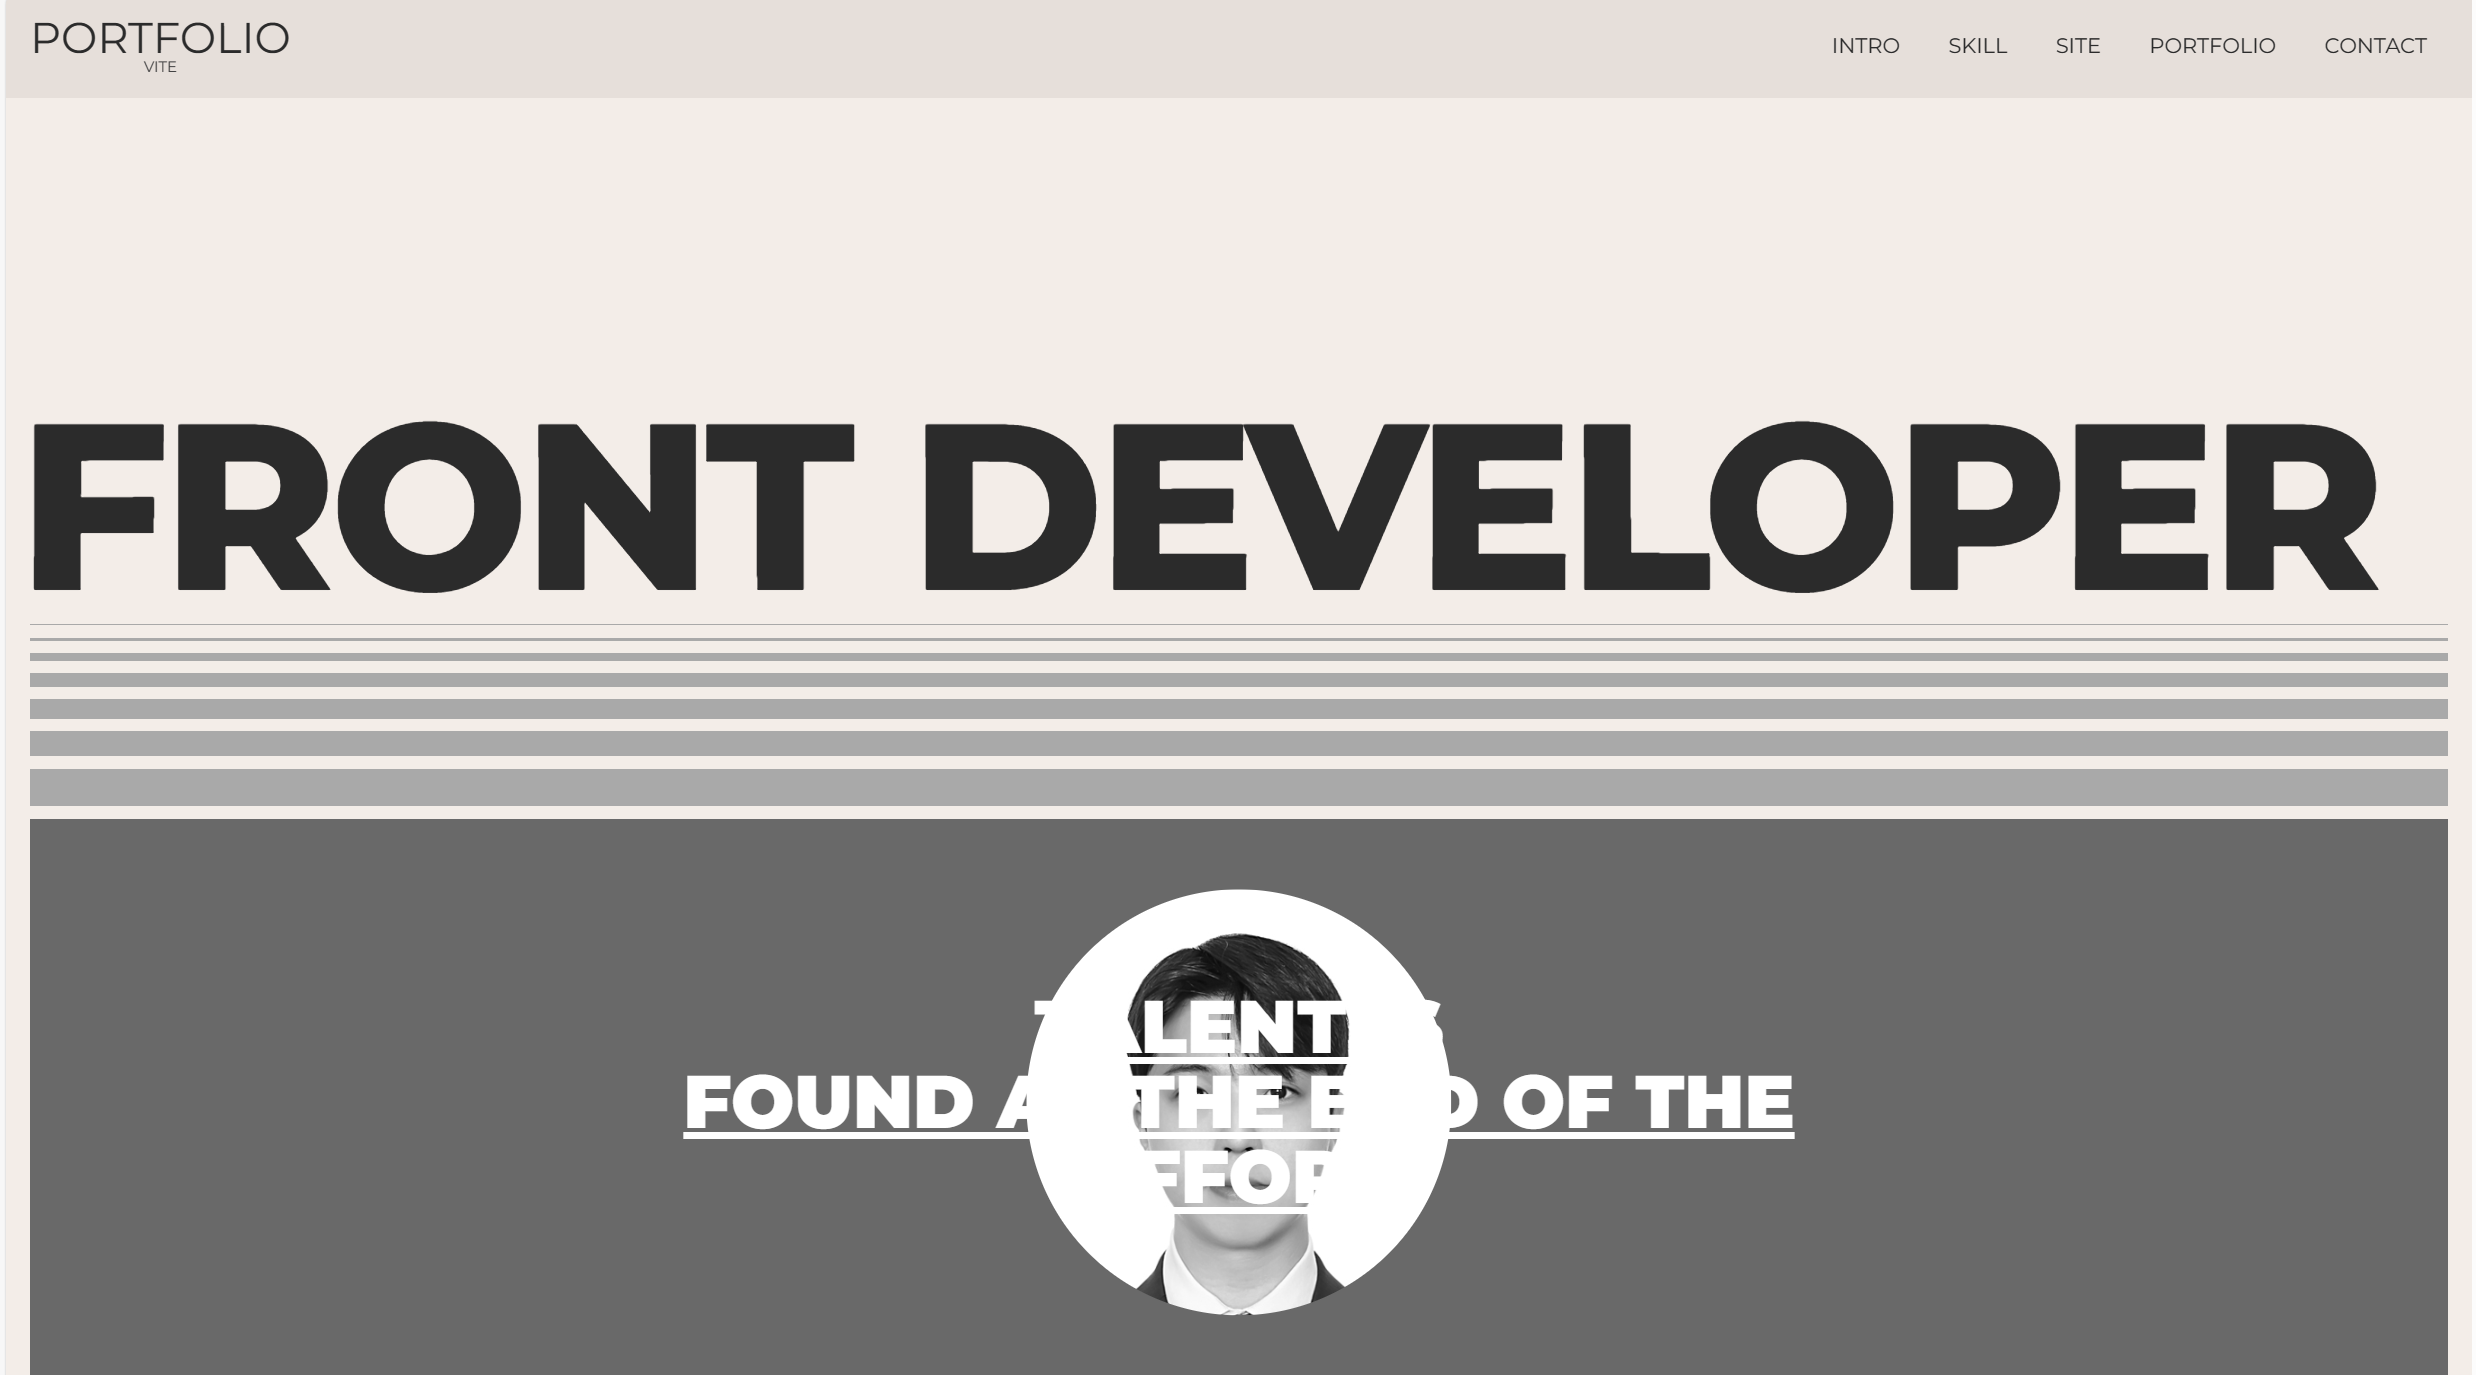
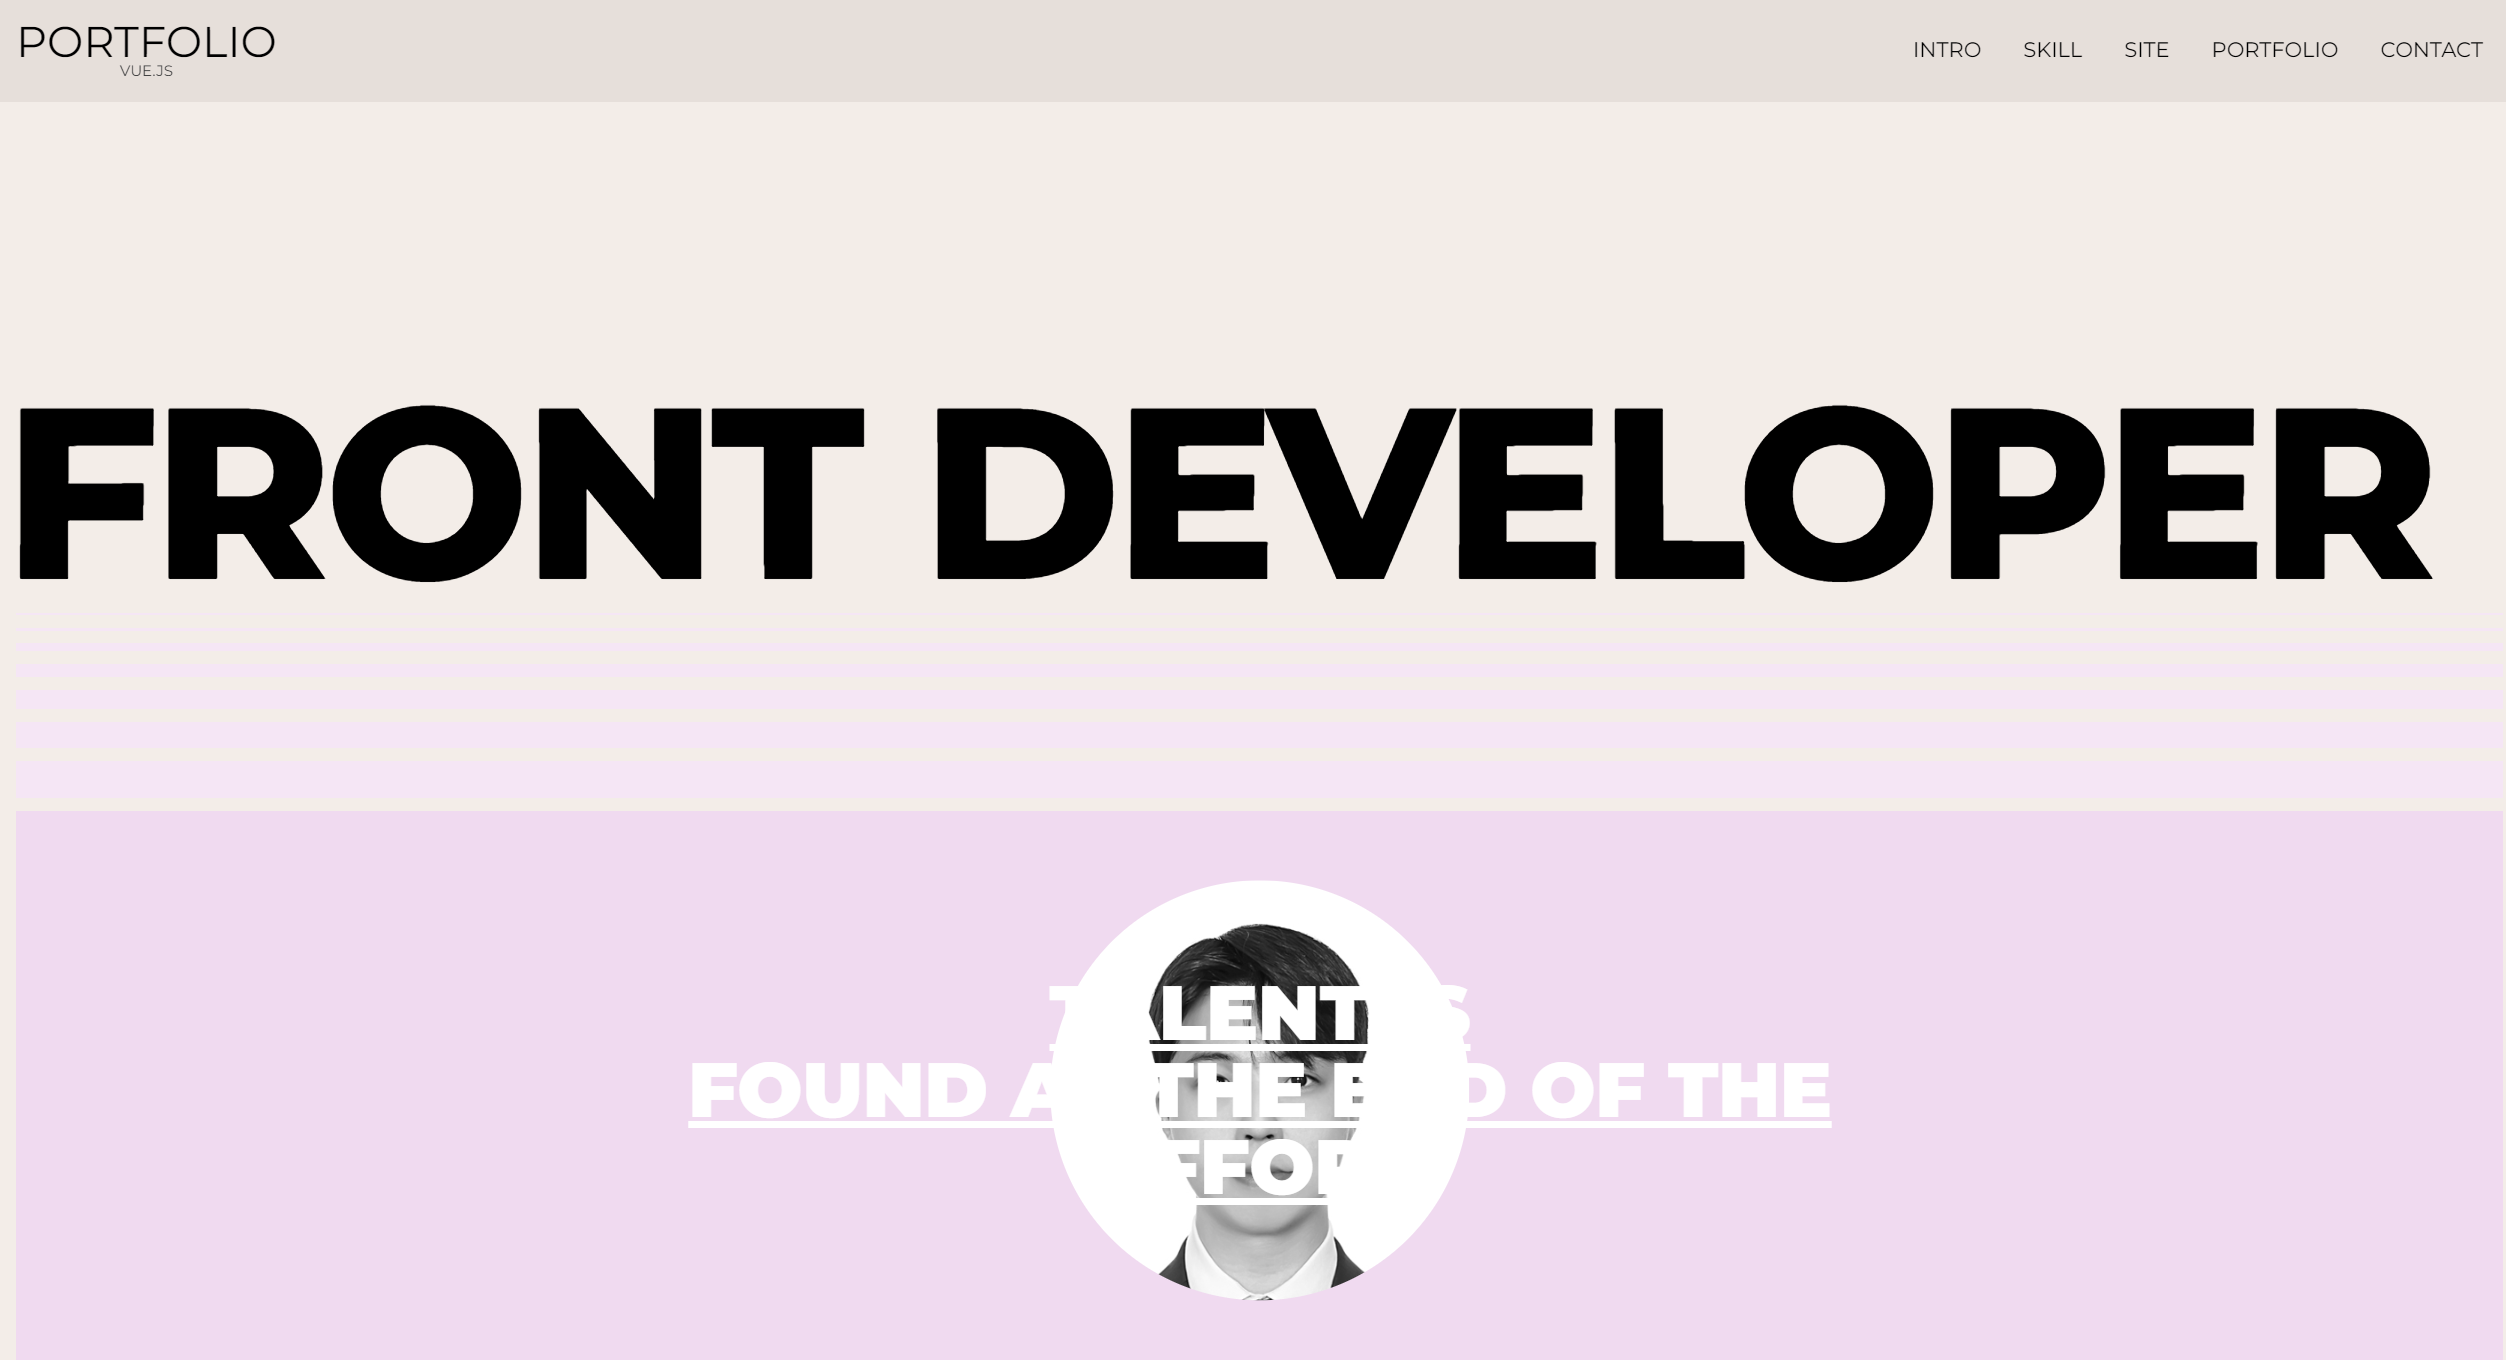
최종 수정

diff --git a/src/constants/index.js b/src/constants/index.js
@@ -115,11 +115,11 @@ export const portText = [
     },
     {
         num: "04",
-        title: "VITE 포트폴리오 사이트",
-        desc: "이 사이트는 VITE로 만든 포트폴리오 사이트입니다. vite를 사용하여 사이트를 번들링하고 관리하며, gsap를 이용하여 패럴릭스 효과를 주고 lenis를 이용하여 스모스 효과를 구현하는 등 다양한 프레임워크를 활용한 사이트입니다. HTML, CSS 기반으로 웹사이트의 기본 레이아웃 설계하고, 웹 표준 및 웹 접근성을 준수하여 작업합니다.",
+        title: "VUE 포트폴리오 사이트",
+        desc: "이 사이트는 VUE로 만든 포트폴리오 사이트입니다. VUE를 사용하여 사이트를 번들링하고 관리하며, gsap를 이용하여 패럴릭스 효과를 주고 lenis를 이용하여 스모스 효과를 구현하는 등 다양한 프레임워크를 활용한 사이트입니다. HTML, CSS 기반으로 웹사이트의 기본 레이아웃 설계하고, 웹 표준 및 웹 접근성을 준수하여 작업합니다.",
         img: portfolio,
-        code: "https://github.com/jjongwann/port2023-vite",
-        view: "https://port2023-jongs-vite.netlify.app/",
+        code: "https://github.com/jjongwann/port2023-vue",
+        view: "https://port2023-jongs-vue.netlify.app/",
         name: "VITE 포트폴리오 사이트",
     },
     {
